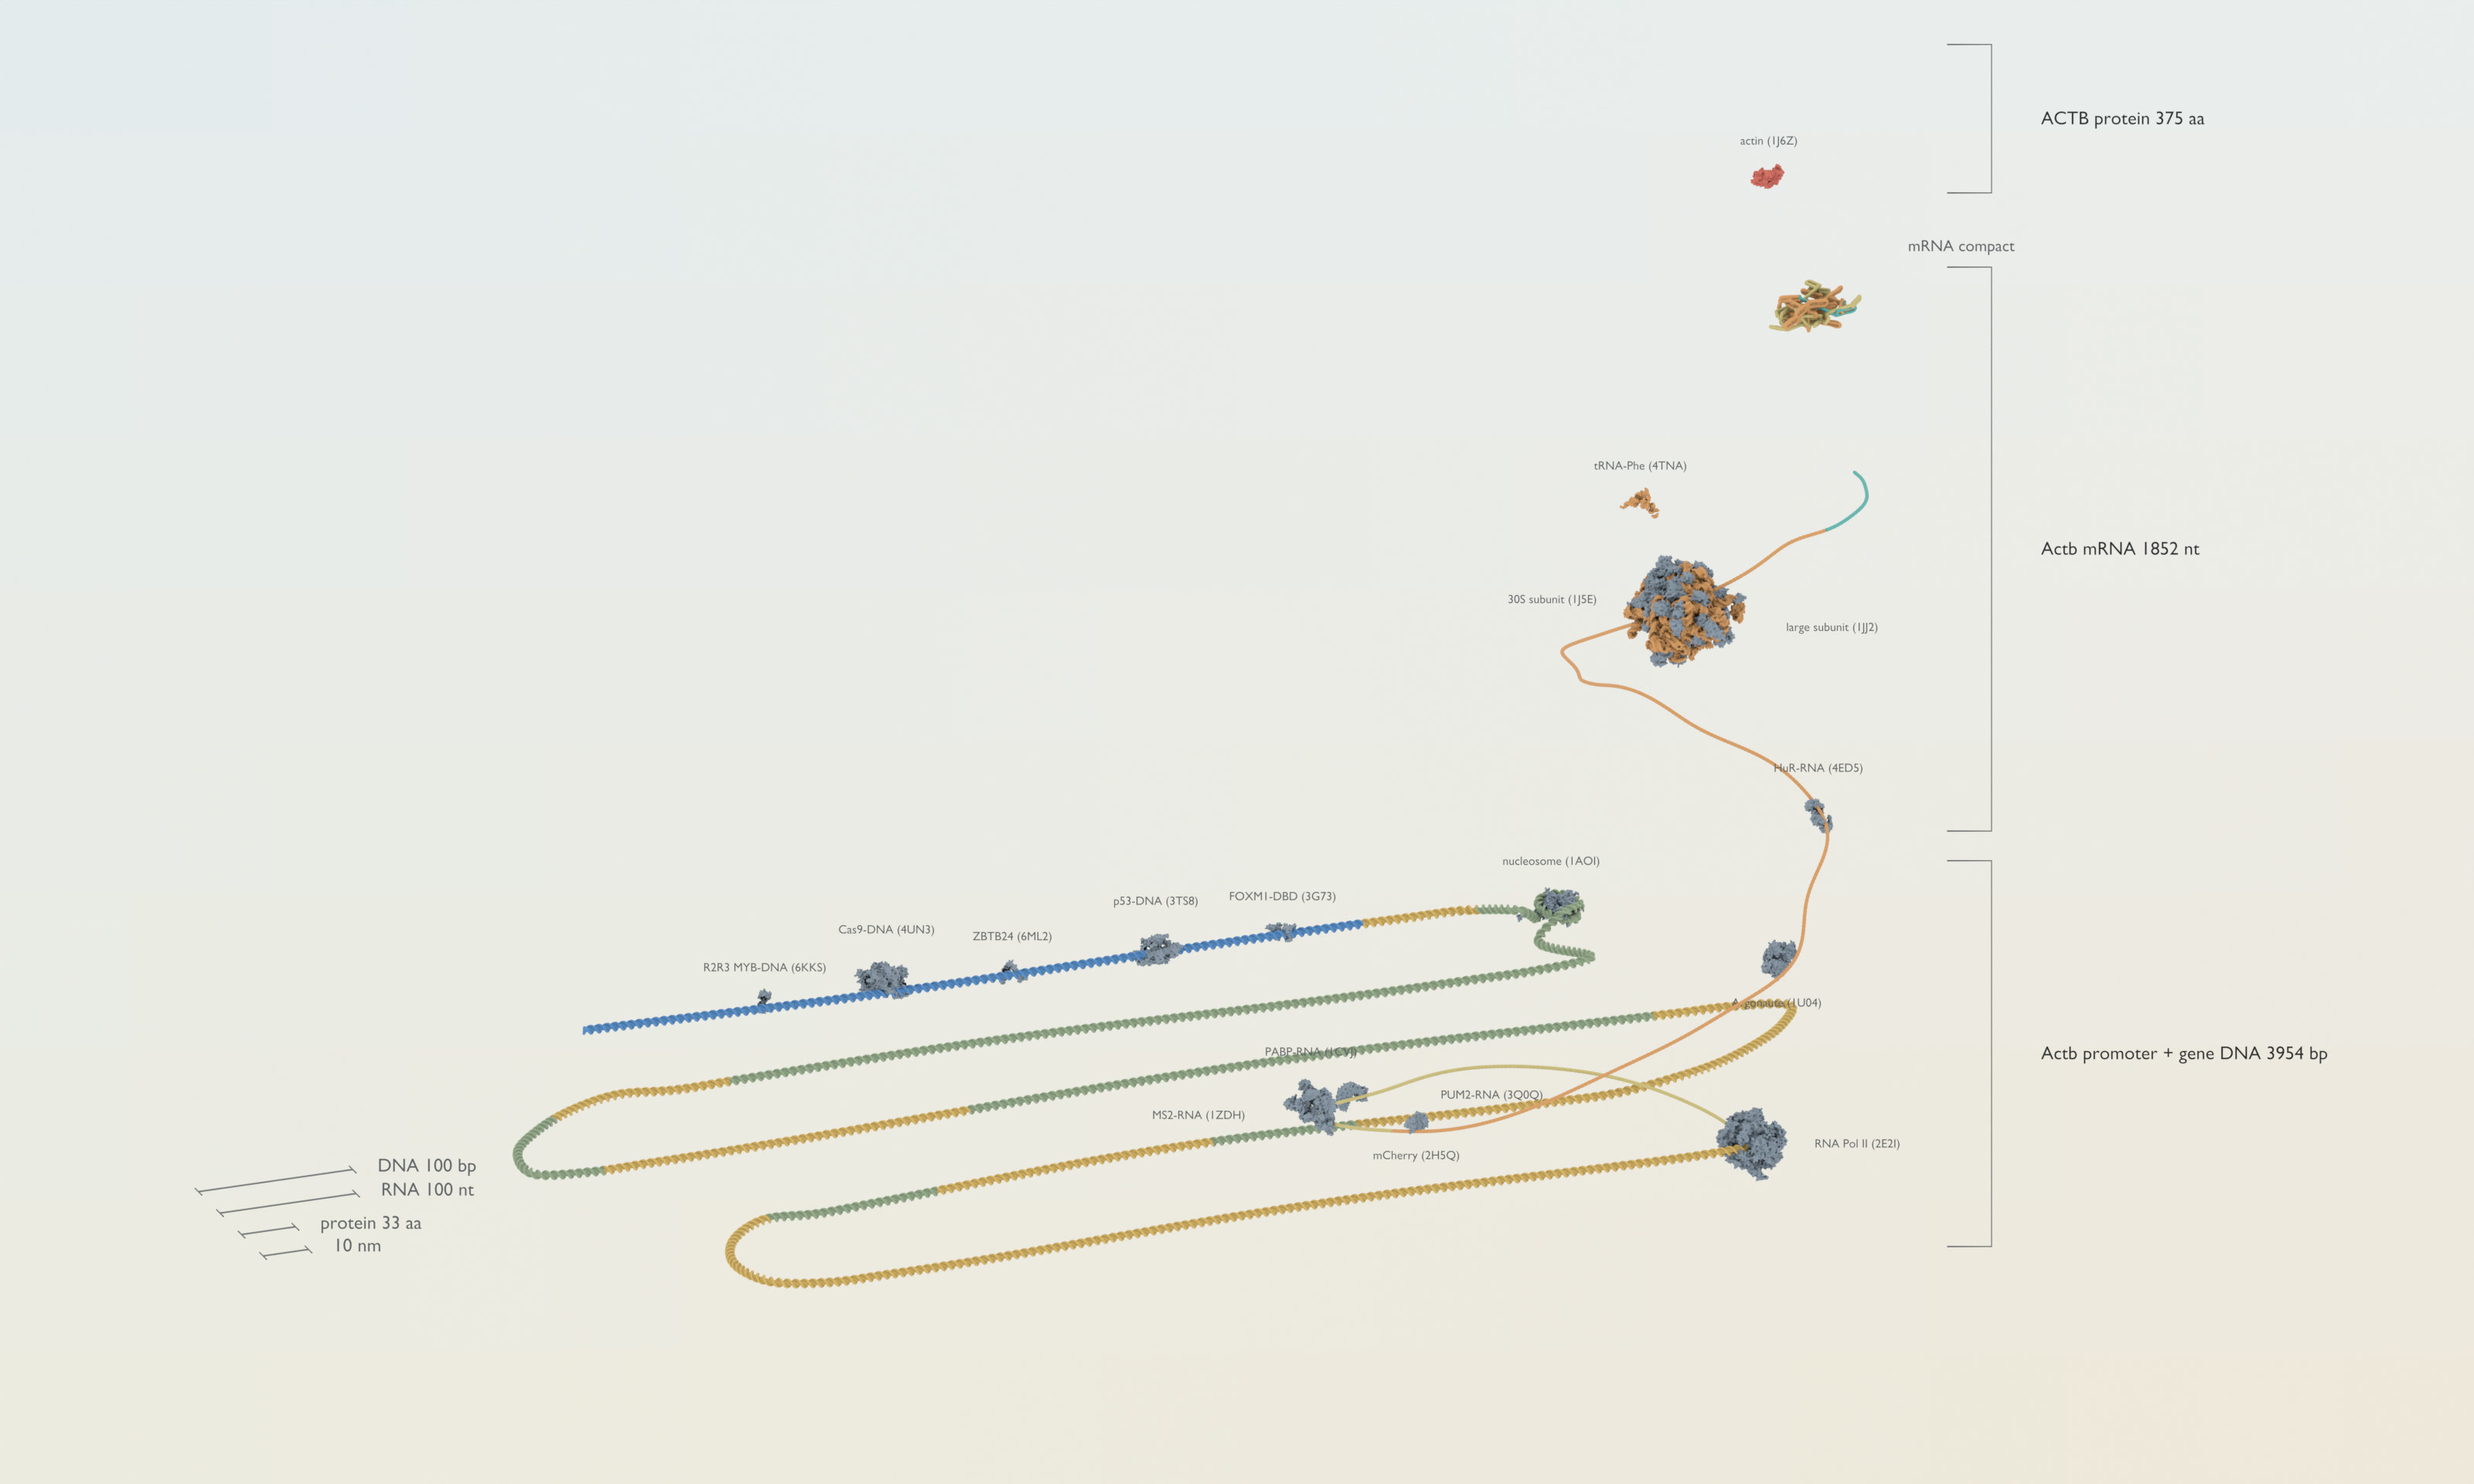
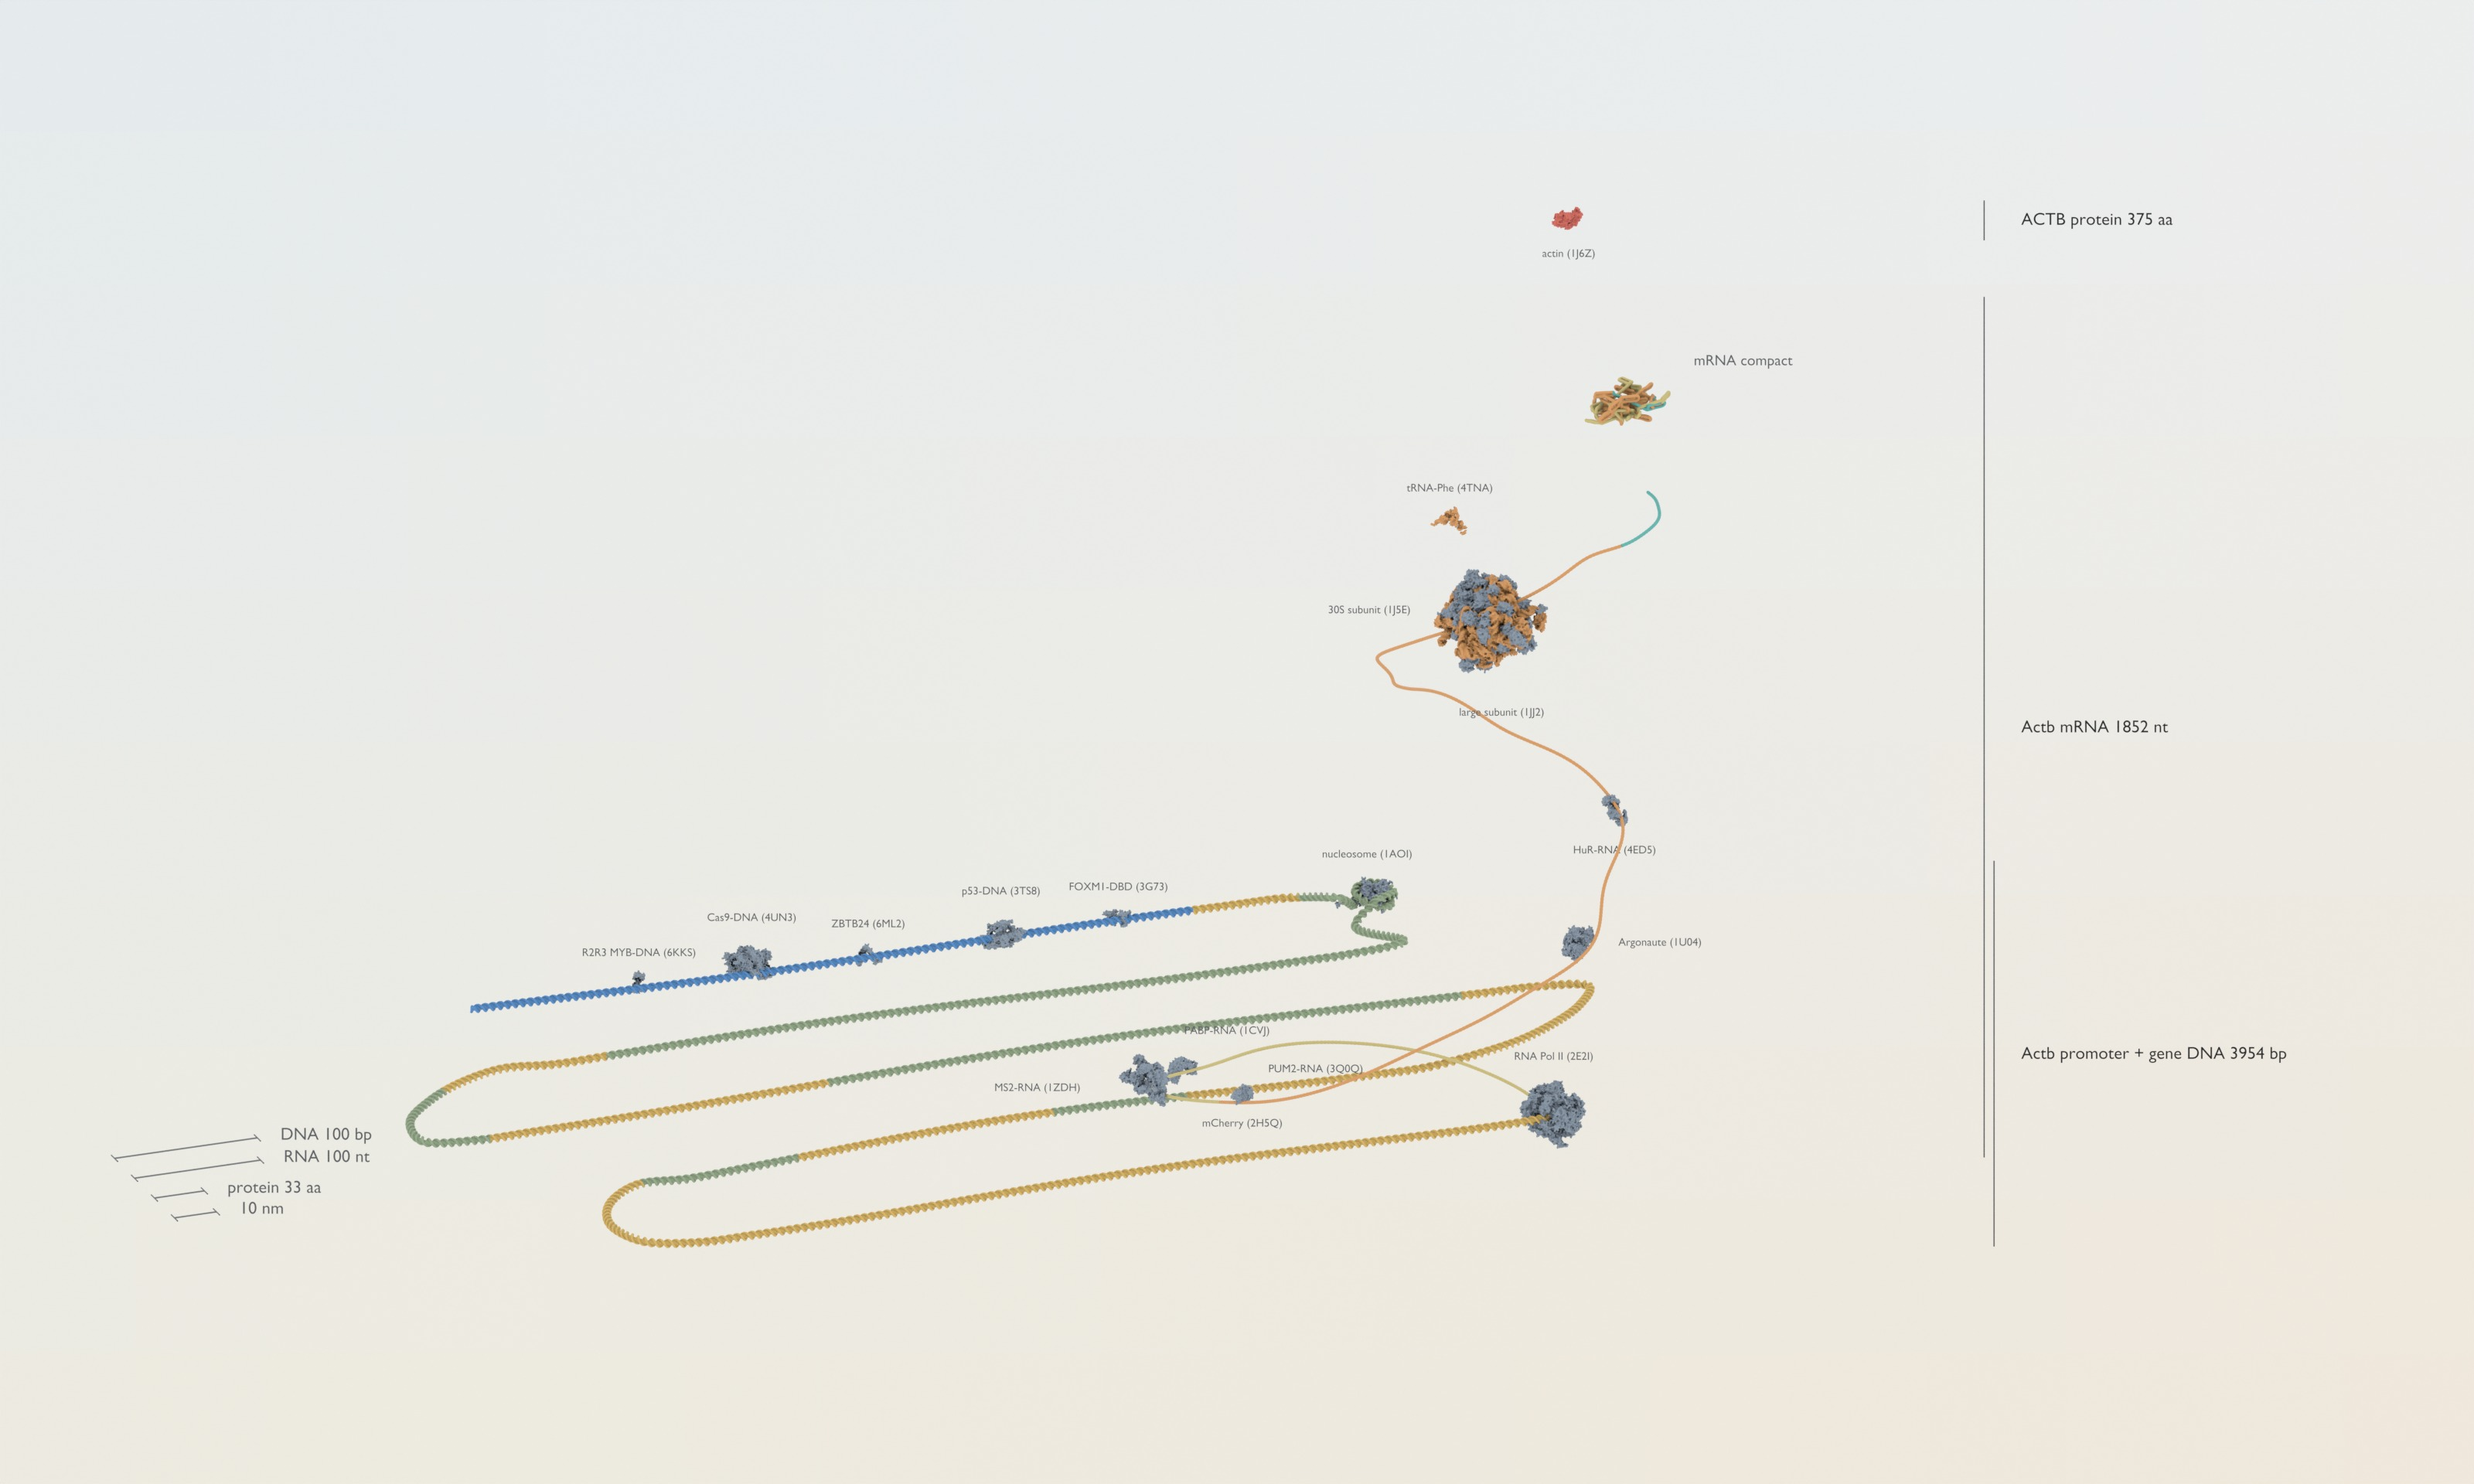
Improved arrangement.

diff --git a/scripts/canonical_scene_renderer.py b/scripts/canonical_scene_renderer.py
@@ -103,12 +103,19 @@ OVERVIEW_LABEL_POSITIONS = {
     "label_Ribosome small subunit": (0.71, 0.73),
     "label_Standalone tRNA": (0.78, 0.71),
 }
-PRIMARY_CALLOUTS = {
-    "label_DNA_canonical": {"text": "Actb promoter + gene DNA 3954 bp", "view_position": (0.825, 0.29), "span": (0.16, 0.42)},
-    "label_mRNA_canonical": {"text": "Actb mRNA 1852 nt", "view_position": (0.825, 0.63), "span": (0.44, 0.82)},
-    "label_ACTB_primary_canonical": {"text": "ACTB protein 375 aa", "view_position": (0.825, 0.92), "span": (0.87, 0.97)},
+OVERVIEW_LABEL_OVERRIDES = {
+    "label_Ribosome large subunit": (0.607, 0.520),
+    "label_Ribosome small subunit": (0.5535, 0.589),
+    "label_Argonaute": (0.671, 0.365),
+    "label_Poly(A)-binding RBP": (0.496, 0.3055),
+    "label_MS2 coat protein MCP": (0.443, 0.3055),
 }
-COMPACT_CALLOUT = {"object": "label_compact_mrna_canonical", "text": "mRNA compact", "offset": (0.014, 0.014)}
+PRIMARY_CALLOUTS = {
+    "label_DNA_canonical": {"text": "Actb promoter + gene DNA 3954 bp", "view_position": (0.817, 0.29), "span": (0.16, 0.42), "line_x": 0.806},
+    "label_mRNA_canonical": {"text": "Actb mRNA 1852 nt", "view_position": (0.817, 0.51), "span": (0.22, 0.80), "line_x": 0.802},
+    "label_ACTB_primary_canonical": {"text": "ACTB protein 375 aa", "view_position": (0.817, 0.852), "span": (0.838, 0.865), "line_x": 0.802},
+}
+COMPACT_CALLOUT = {"object": "label_compact_mrna_canonical", "text": "mRNA compact", "offset": (0.005, 0.003)}
 DETAIL_TITLES = {
     "p53_dna": "p53 tetramer + DNA (3TS8)",
     "nucleosome_loop": "nucleosome core + wrapped DNA (1AOI)",
@@ -174,14 +181,19 @@ def compact_positioned_manifest(manifest: dict, mrna_path) -> tuple[dict, dict]:
     mrna_end = Vector((mrna_path.points[-1].x, mrna_path.points[-1].y, mrna_path.points[-1].z))
     actin = canonical.asset_by_name(adjusted, "Actin protein")
     actin_location = Vector(actin["location_mm"])
-    center = mrna_end.lerp(actin_location, 0.55)
+    interpolation = float(
+        adjusted["procedural_nucleic_acids"]["mrna"].get(
+            "compact_interpolation_from_mrna_end_to_actin", 0.55
+        )
+    )
+    center = mrna_end.lerp(actin_location, interpolation)
     adjusted["procedural_nucleic_acids"]["mrna"]["compact_center_mm"] = [center.x, center.y, center.z]
     return adjusted, {
         "mode": "between_mrna_end_and_actin",
         "mrna_end_mm": [mrna_end.x, mrna_end.y, mrna_end.z],
         "actin_location_mm": [actin_location.x, actin_location.y, actin_location.z],
         "computed_center_mm": [center.x, center.y, center.z],
-        "interpolation_from_mrna_end_to_actin": 0.55,
+        "interpolation_from_mrna_end_to_actin": interpolation,
     }
 
 
@@ -850,7 +862,7 @@ def _camera_overlay_point(camera: bpy.types.Object, x_norm: float, y_norm: float
 
 def _remove_annotation_guides() -> None:
     for obj in list(bpy.data.objects):
-        if obj.get("canonical_annotation_leader") or obj.get("canonical_annotation_bracket") or obj.get("canonical_label_backing"):
+        if obj.get("canonical_annotation_leader") or obj.get("canonical_annotation_bracket") or obj.get("canonical_annotation_line") or obj.get("canonical_label_backing"):
             bpy.data.objects.remove(obj, do_unlink=True)
 
 
@@ -937,23 +949,20 @@ def _create_label_backing(name: str, camera: bpy.types.Object, box, collections:
     return obj.name
 
 
-def _create_group_bracket(
+def _create_group_line(
     name: str,
     camera: bpy.types.Object,
     span: tuple[float, float],
+    line_x: float,
     collections: dict,
     materials: dict,
 ) -> str:
-    bracket_x = 0.805
-    tick = 0.018
     bottom, top = span
     points = [
-        _camera_overlay_point(camera, bracket_x - tick, top),
-        _camera_overlay_point(camera, bracket_x, top),
-        _camera_overlay_point(camera, bracket_x, bottom),
-        _camera_overlay_point(camera, bracket_x - tick, bottom),
+        _camera_overlay_point(camera, line_x, top),
+        _camera_overlay_point(camera, line_x, bottom),
     ]
-    bracket = base.create_curve(
+    line = base.create_curve(
         name,
         [(point.x, point.y, point.z) for point in points],
         0.060,
@@ -961,8 +970,8 @@ def _create_group_bracket(
         collections["Labels"],
         resolution=1,
     )
-    bracket["canonical_annotation_bracket"] = True
-    return bracket.name
+    line["canonical_annotation_line"] = True
+    return line.name
 
 
 def place_overview_labels(camera_name: str, collections: dict, materials: dict) -> dict:
@@ -994,7 +1003,7 @@ def place_overview_labels(camera_name: str, collections: dict, materials: dict) 
         lines = obj.data.body.splitlines() or [obj.data.body]
         box_width = max(0.026, min(0.078, 0.006 + max(len(line) for line in lines) * 0.00215))
         box_height = max(0.017, len(lines) * 0.017)
-        gap = 0.008 if obj.name == "label_HuR-like RBP" else 0.003
+        gap = 0.003 if obj.name == "label_HuR-like RBP" else 0.001
         half_width, half_height = box_width * 0.5, box_height * 0.5
         candidates = [
             (molecule_box[1] + gap + half_width, anchor_norm[1]),
@@ -1006,6 +1015,9 @@ def place_overview_labels(camera_name: str, collections: dict, materials: dict) 
             (molecule_box[1] + gap + half_width, molecule_box[2] - gap - half_height),
             (molecule_box[0] - gap - half_width, molecule_box[2] - gap - half_height),
         ]
+        preferred = OVERVIEW_LABEL_OVERRIDES.get(obj.name)
+        if preferred is not None:
+            candidates.insert(0, preferred)
         for extra_gap in (gap + 0.012, gap + 0.024, gap + 0.036):
             candidates.extend(
                 [
@@ -1038,7 +1050,10 @@ def place_overview_labels(camera_name: str, collections: dict, materials: dict) 
                 inside = box[0] >= 0.08 and box[1] <= 0.775 and box[2] >= 0.08 and box[3] <= 0.93
                 if inside and not any(_boxes_overlap(box, other) for other in occupied):
                     valid.append((candidate, box))
-        if valid:
+        preferred_valid = next((item for item in valid if preferred is not None and item[0] == preferred), None)
+        if preferred_valid is not None:
+            (x_norm, y_norm), placed_box = preferred_valid
+        elif valid:
             (x_norm, y_norm), placed_box = min(valid, key=lambda item: abs(item[0][0] - anchor_norm[0]) + abs(item[0][1] - anchor_norm[1]))
         else:
             x_norm = max(0.08 + box_width * 0.5, min(0.775 - box_width * 0.5, candidates[0][0]))
@@ -1123,8 +1138,8 @@ def place_overview_labels(camera_name: str, collections: dict, materials: dict) 
         obj.data.align_y = "CENTER"
         obj.data.size = 1.55
         obj.location = _camera_overlay_point(camera, x_norm, y_norm)
-        bracket_name = _create_group_bracket(
-            f"overview_group_bracket_{object_name}", camera, spec["span"], collections, materials
+        line_name = _create_group_line(
+            f"overview_group_line_{object_name}", camera, spec["span"], spec["line_x"], collections, materials
         )
         obj["overview_label_position"] = [x_norm, y_norm]
         primary_rows.append(
@@ -1133,7 +1148,8 @@ def place_overview_labels(camera_name: str, collections: dict, materials: dict) 
                 "text": spec["text"],
                 "view_position": [x_norm, y_norm],
                 "span": list(spec["span"]),
-                "bracket": bracket_name,
+                "line": line_name,
+                "line_x": spec["line_x"],
                 "leader": None,
             }
         )
@@ -1155,7 +1171,7 @@ def place_overview_labels(camera_name: str, collections: dict, materials: dict) 
             ):
                 molecule_overlap_pairs.append([left["object"], molecule_name])
     return {
-        "policy": "three right-side camera-space brackets group protein, mRNA, and DNA; PDB labels remain in world space at molecule depth and are camera-packed immediately outside projected molecule bounds without leaders or backings",
+        "policy": "three right-side camera-space vertical lines identify protein, mRNA, and DNA extents; the mRNA and DNA lines run in parallel where both molecules occupy the same projected height; PDB labels remain at molecule depth and are packed immediately outside projected molecule bounds without leaders or backings",
         "camera": camera_name,
         "placed_label_count": len(rows) + len(primary_rows) + (1 if compact_row else 0),
         "primary_callouts": primary_rows,

diff --git a/scripts/build_gene_expression_surface_scene.py b/scripts/build_gene_expression_surface_scene.py
@@ -5,7 +5,6 @@ from __future__ import annotations
 
 import copy
 import math
-import os
 import sys
 from pathlib import Path
 
@@ -58,11 +57,11 @@ FOCUS_OBJECT_PATTERNS = {
 }
 
 PRIMARY_CALLOUTS = {
-    "label_DNA_canonical": {"text": "Actb promoter + gene DNA 3954 bp", "view_position": (0.825, 0.29), "span": (0.16, 0.42)},
-    "label_mRNA_canonical": {"text": "Actb mRNA 1852 nt", "view_position": (0.825, 0.63), "span": (0.44, 0.82)},
-    "label_ACTB_primary_canonical": {"text": "ACTB protein 375 aa", "view_position": (0.825, 0.92), "span": (0.87, 0.97)},
+    "label_DNA_canonical": {"text": "Actb promoter + gene DNA 3954 bp", "view_position": (0.817, 0.29), "span": (0.16, 0.42), "line_x": 0.806},
+    "label_mRNA_canonical": {"text": "Actb mRNA 1852 nt", "view_position": (0.817, 0.51), "span": (0.22, 0.80), "line_x": 0.802},
+    "label_ACTB_primary_canonical": {"text": "ACTB protein 375 aa", "view_position": (0.817, 0.852), "span": (0.838, 0.865), "line_x": 0.802},
 }
-COMPACT_CALLOUT = {"object": "label_compact_mrna_canonical", "text": "mRNA compact", "offset": (0.014, 0.014)}
+COMPACT_CALLOUT = {"object": "label_compact_mrna_canonical", "text": "mRNA compact", "offset": (0.005, 0.003)}
 
 
 def build_canonical_dna(manifest: dict, collections: dict, materials: dict) -> dict:
@@ -338,5 +337,4 @@ def configure_renderer() -> None:
 
 if __name__ == "__main__":
     configure_renderer()
-    os.environ.pop("CANONICAL_OVERVIEW_ONLY", None)
     renderer.main()
